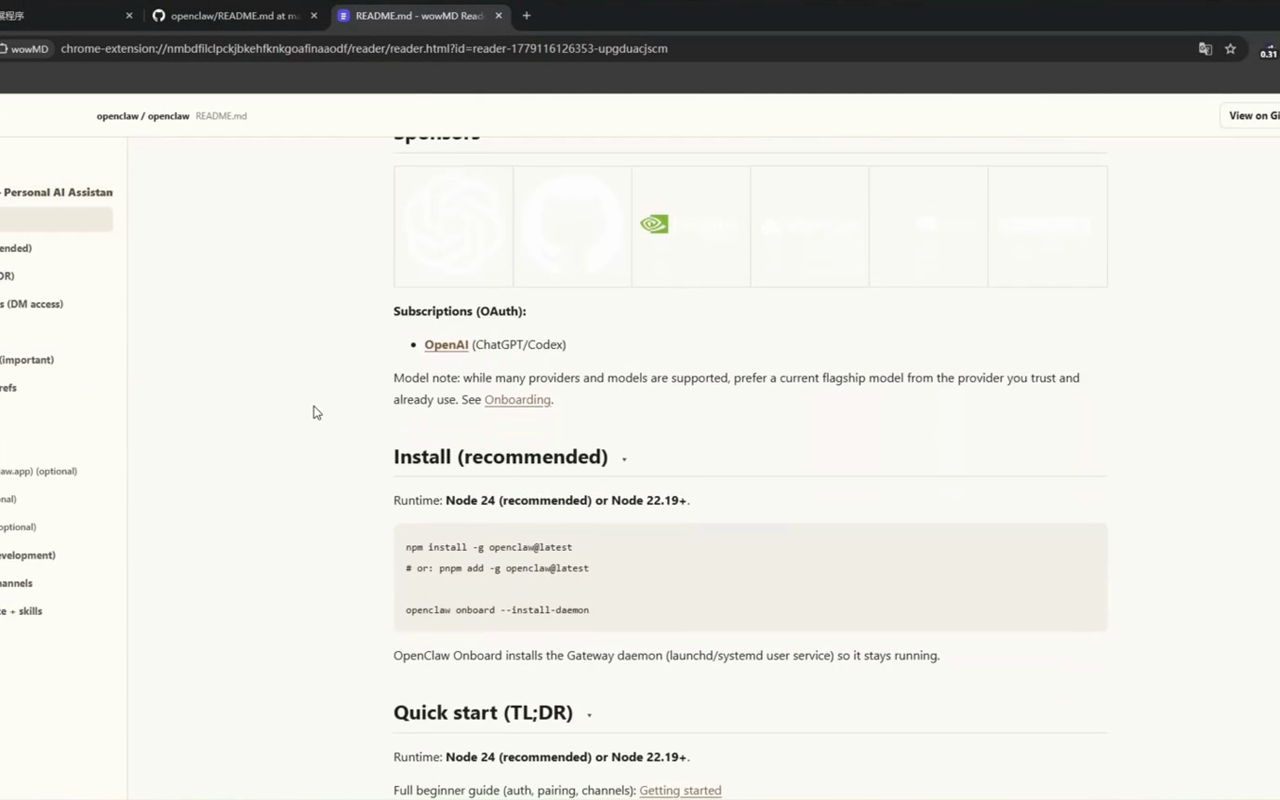
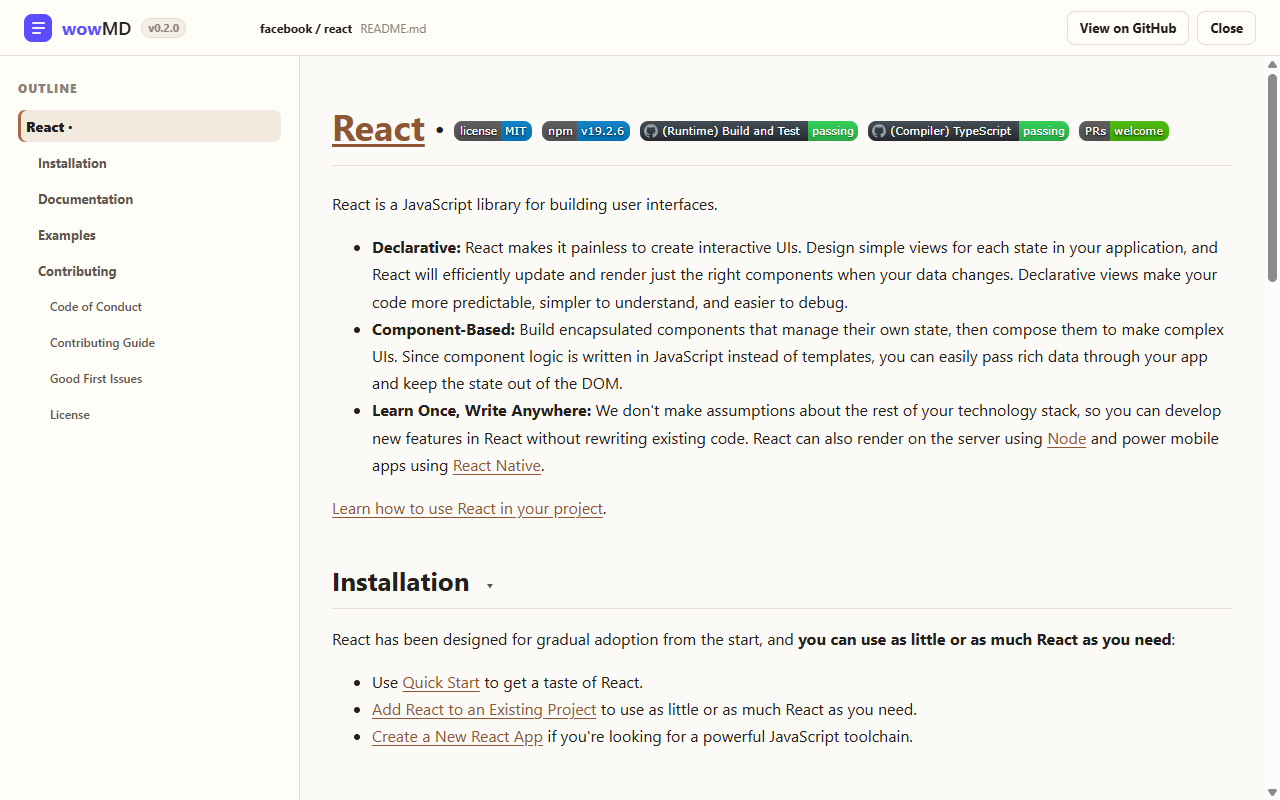
0.2 patch 0524

diff --git a/extension/reader/reader.css b/extension/reader/reader.css
@@ -105,6 +105,21 @@ a {
   font-weight: 500;
 }
 
+.reader-version {
+  height: 20px;
+  display: inline-flex;
+  align-items: center;
+  padding: 0 6px;
+  border: 1px solid var(--wm-border);
+  border-radius: 999px;
+  color: var(--wm-text-muted);
+  background: var(--wm-surface-soft);
+  font-size: 11px;
+  font-weight: 700;
+  line-height: 1;
+  letter-spacing: 0;
+}
+
 .reader-file {
   min-width: 0;
   display: flex;

diff --git a/extension/reader/reader.html b/extension/reader/reader.html
@@ -12,6 +12,7 @@
       <div class="reader-brand" aria-label="wowMD">
         <span class="reader-brand-mark" aria-hidden="true"><span></span><span></span><span></span></span>
         <span class="reader-brand-text" aria-hidden="true"><span class="reader-brand-wow">wow</span><span class="reader-brand-md">MD</span></span>
+        <span class="reader-version">v0.2.0</span>
       </div>
       <div class="reader-file">
         <span class="reader-repo" id="reader-repo">Markdown</span>